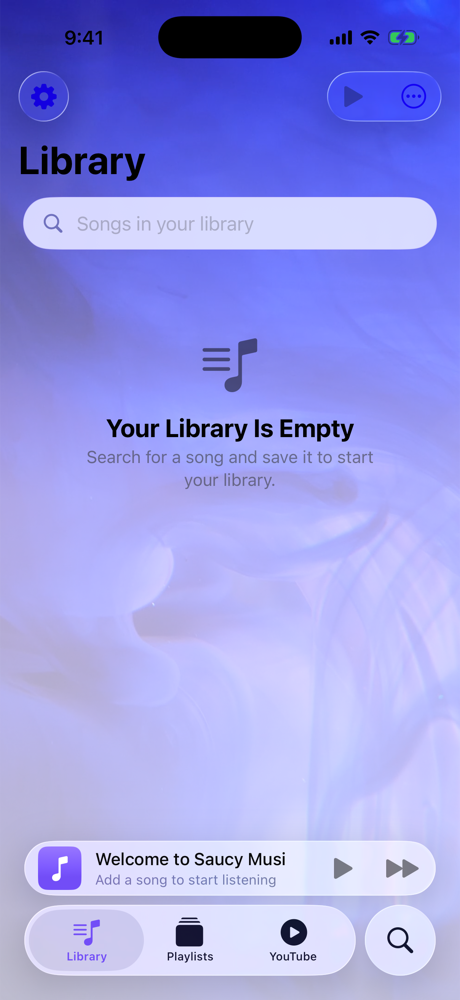
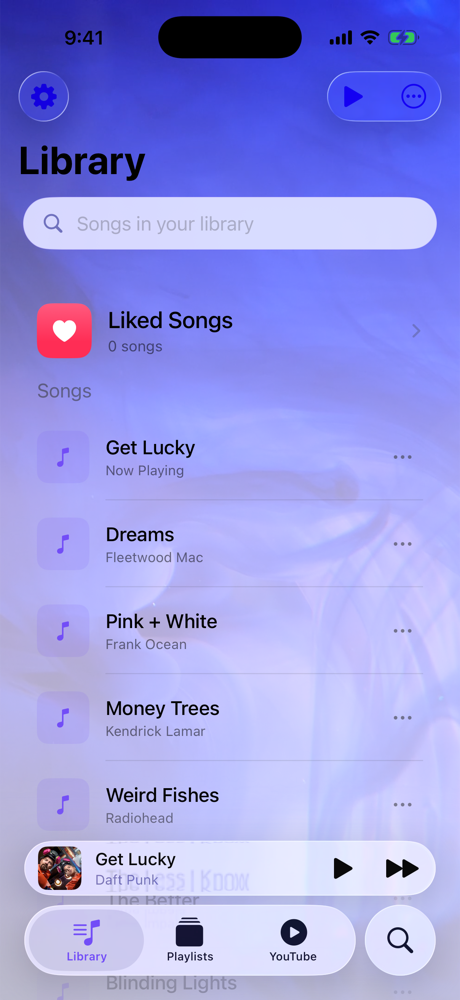
Docs: add Now Playing and search screenshots

diff --git a/README.md b/README.md
@@ -8,9 +8,19 @@ and share as real audio files.
 <p align="center">
   <img src="docs/screenshots/library.png" width="250" alt="Library">
   &nbsp;
-  <img src="docs/screenshots/search.png" width="250" alt="YouTube search">
+  <img src="docs/screenshots/now-playing.png" width="250" alt="Now Playing">
+  &nbsp;
+  <img src="docs/screenshots/youtube-search.png" width="250" alt="YouTube search results">
+</p>
+
+<p align="center">
+  <img src="docs/screenshots/library-search.png" width="250" alt="Searching the library by artist">
   &nbsp;
   <img src="docs/screenshots/settings.png" width="250" alt="Settings">
+</p>
+
+<p align="center">
+  <sub>Library · Now Playing · YouTube search · Library search · Settings</sub>
 </p>
 
 ## Features
